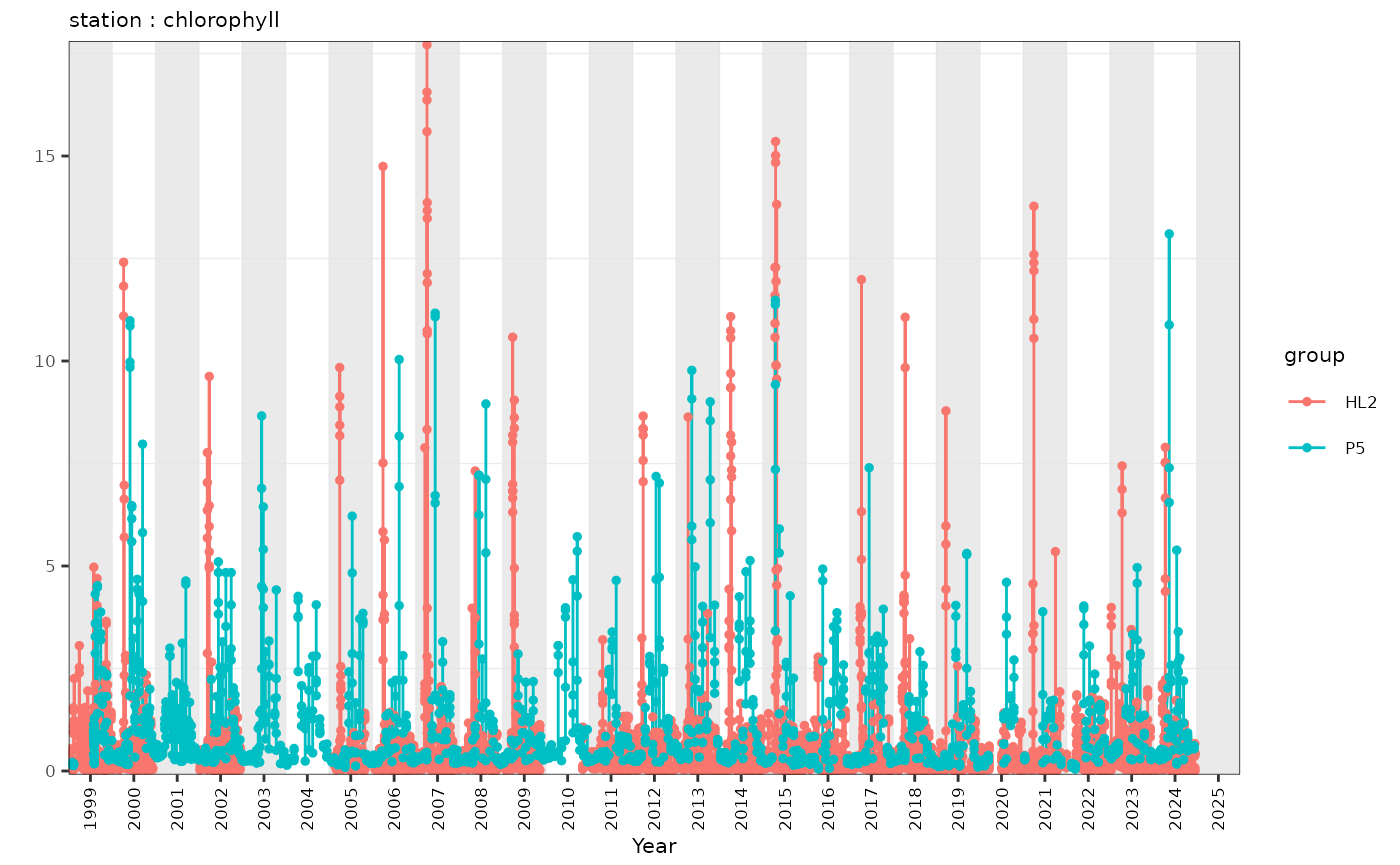
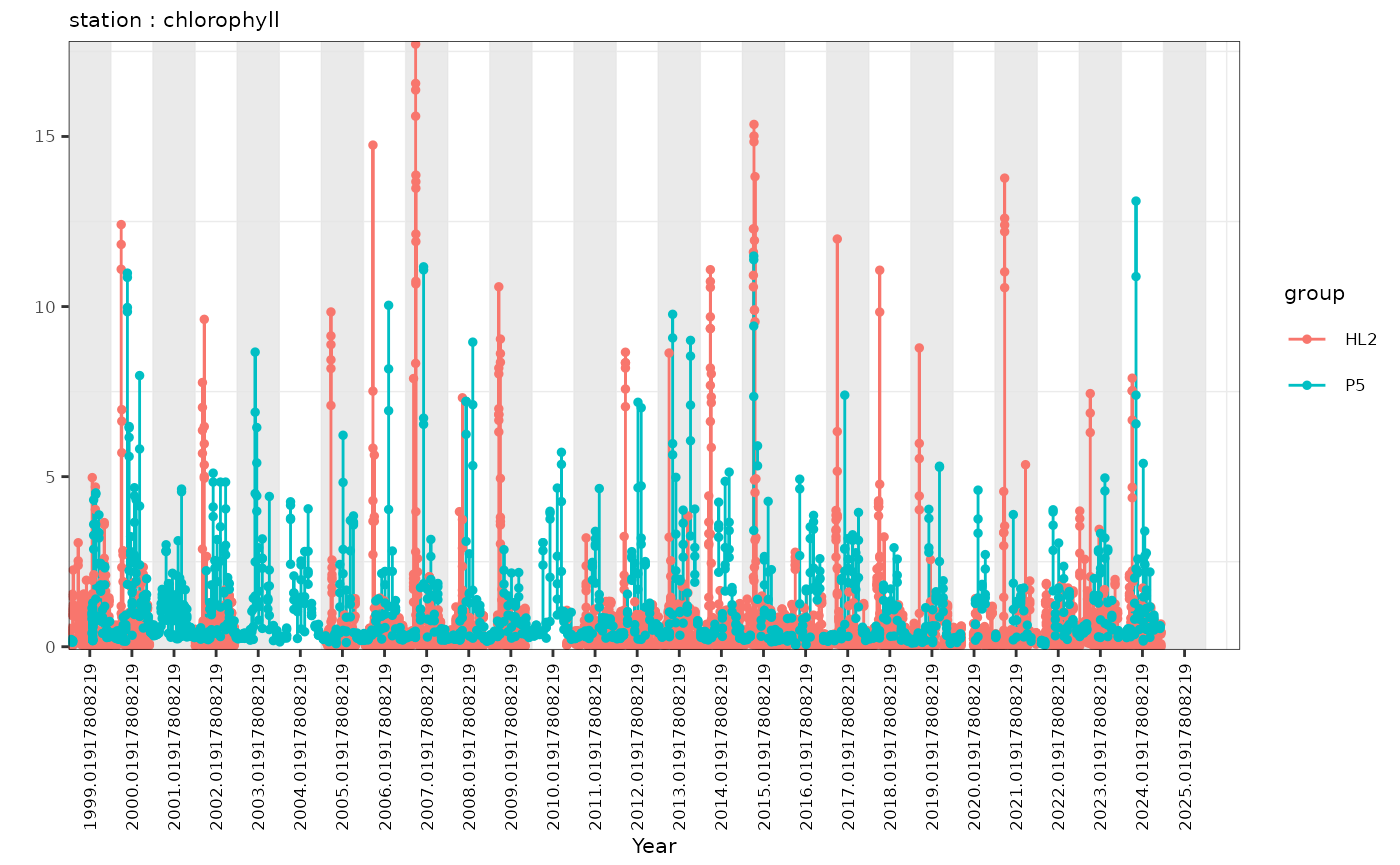
Deploying to gh-pages from @ EOGrady21/azmpdata@620d237e031e601b405af6bbc6f0dbf172aa0714 🚀

diff --git a/articles/plotting_azmpdata.html b/articles/plotting_azmpdata.html
@@ -52,7 +52,7 @@
       <a href="../articles/plotting_azmpdata.html">Plotting in azmpdata</a>
     </li>
     <li>
-      <a href="../articles/search_azmpdata.html">azmpdata - Spatially and Temporally searching data within the azmpdata package</a>
+      <a href="../articles/search_azmpdata.html">Spatially and Temporally searching data within the azmpdata package</a>
     </li>
     <li>
       <a href="../articles/style_guide.html">Style Guide</a>
@@ -259,30 +259,32 @@ annual dataset.</p>
 <p>A user may also want to plot a timeseries. This method is also fairly
 generic and could be modified to plot any Occupations dataset.</p>
 <div class="sourceCode" id="cb23"><pre class="downlit sourceCode r">
-<code class="sourceCode R"><span><span class="va">df_data</span> <span class="op">&lt;-</span> <span class="fu"><a href="https://rdrr.io/r/base/get.html" class="external-link">get</a></span><span class="op">(</span><span class="st">'Discrete_Occupations_Stations'</span><span class="op">)</span> <span class="co"># get data</span></span>
-<span><span class="va">variable</span> <span class="op">&lt;-</span> <span class="st">'chlorophyll'</span> <span class="co"># choose variable to plot</span></span>
+<code class="sourceCode R"><span>  <span class="va">df_data</span> <span class="op">&lt;-</span> <span class="fu"><a href="https://rdrr.io/r/base/get.html" class="external-link">get</a></span><span class="op">(</span><span class="st">'Discrete_Occupations_Stations'</span><span class="op">)</span> <span class="co"># get data</span></span>
+<span>  <span class="va">variable</span> <span class="op">&lt;-</span> <span class="st">'chlorophyll'</span> <span class="co"># choose variable to plot</span></span>
+<span>  </span>
+<span></span>
+<span>  <span class="co"># check for metadata</span></span>
+<span>  <span class="va">metanames</span> <span class="op">&lt;-</span> <span class="fu"><a href="https://rdrr.io/r/base/c.html" class="external-link">c</a></span><span class="op">(</span><span class="st">'year'</span>, <span class="st">'month'</span>, <span class="st">'day'</span>, <span class="st">'area'</span>, <span class="st">'section'</span>, <span class="st">'station'</span>, <span class="st">'date'</span> <span class="op">)</span></span>
+<span>  <span class="va">meta_df</span> <span class="op">&lt;-</span> <span class="fu"><a href="https://rdrr.io/r/base/names.html" class="external-link">names</a></span><span class="op">(</span><span class="va">df_data</span><span class="op">)</span><span class="op">[</span><span class="fu"><a href="https://rdrr.io/r/base/names.html" class="external-link">names</a></span><span class="op">(</span><span class="va">df_data</span><span class="op">)</span> <span class="op"><a href="https://rdrr.io/r/base/match.html" class="external-link">%in%</a></span> <span class="va">metanames</span><span class="op">]</span></span>
+<span></span>
+<span>  <span class="va">group</span> <span class="op">&lt;-</span> <span class="va">meta_df</span><span class="op">[</span><span class="op">!</span><span class="va">meta_df</span> <span class="op"><a href="https://rdrr.io/r/base/match.html" class="external-link">%in%</a></span> <span class="fu"><a href="https://rdrr.io/r/base/c.html" class="external-link">c</a></span><span class="op">(</span><span class="st">'year'</span>, <span class="st">'month'</span>, <span class="st">'day'</span>, <span class="st">'date'</span><span class="op">)</span><span class="op">]</span></span>
+<span></span>
+<span>  <span class="va">df_data</span> <span class="op">&lt;-</span> <span class="va">df_data</span> <span class="op"><a href="../reference/pipe.html">%&gt;%</a></span></span>
+<span>    <span class="fu">dplyr</span><span class="fu">::</span><span class="fu"><a href="https://dplyr.tidyverse.org/reference/select.html" class="external-link">select</a></span><span class="op">(</span><span class="va">.</span>, <span class="fu"><a href="https://tidyselect.r-lib.org/reference/all_of.html" class="external-link">any_of</a></span><span class="op">(</span><span class="va">meta_df</span><span class="op">)</span>, <span class="fu"><a href="https://tidyselect.r-lib.org/reference/all_of.html" class="external-link">all_of</a></span><span class="op">(</span><span class="va">variable</span><span class="op">)</span> <span class="op">)</span> <span class="op"><a href="../reference/pipe.html">%&gt;%</a></span></span>
+<span>    <span class="fu">dplyr</span><span class="fu">::</span><span class="fu"><a href="https://dplyr.tidyverse.org/reference/rename.html" class="external-link">rename</a></span><span class="op">(</span><span class="va">.</span>, <span class="st">'value'</span> <span class="op">=</span> <span class="fu"><a href="https://tidyselect.r-lib.org/reference/all_of.html" class="external-link">all_of</a></span><span class="op">(</span><span class="va">variable</span><span class="op">)</span> <span class="op">)</span> <span class="op"><a href="../reference/pipe.html">%&gt;%</a></span></span>
+<span>    <span class="fu">dplyr</span><span class="fu">::</span><span class="fu"><a href="https://dplyr.tidyverse.org/reference/rename.html" class="external-link">rename</a></span><span class="op">(</span><span class="va">.</span>, <span class="st">'group'</span> <span class="op">=</span> <span class="fu"><a href="https://tidyselect.r-lib.org/reference/all_of.html" class="external-link">all_of</a></span><span class="op">(</span><span class="va">group</span><span class="op">)</span><span class="op">)</span> <span class="co">#TODO some dataframes do not have groups!?</span></span>
 <span></span>
 <span></span>
-<span><span class="co"># check for metadata</span></span>
-<span><span class="va">metanames</span> <span class="op">&lt;-</span> <span class="fu"><a href="https://rdrr.io/r/base/c.html" class="external-link">c</a></span><span class="op">(</span><span class="st">'year'</span>, <span class="st">'month'</span>, <span class="st">'day'</span>, <span class="st">'area'</span>, <span class="st">'section'</span>, <span class="st">'station'</span> <span class="op">)</span></span>
-<span><span class="va">meta_df</span> <span class="op">&lt;-</span> <span class="fu"><a href="https://rdrr.io/r/base/names.html" class="external-link">names</a></span><span class="op">(</span><span class="va">df_data</span><span class="op">)</span><span class="op">[</span><span class="fu"><a href="https://rdrr.io/r/base/names.html" class="external-link">names</a></span><span class="op">(</span><span class="va">df_data</span><span class="op">)</span> <span class="op"><a href="https://rdrr.io/r/base/match.html" class="external-link">%in%</a></span> <span class="va">metanames</span><span class="op">]</span></span>
+<span>  <span class="co"># prepare data</span></span>
+<span>  <span class="va">df_data</span> <span class="op">&lt;-</span> <span class="va">df_data</span> <span class="op"><a href="../reference/pipe.html">%&gt;%</a></span></span>
+<span>    <span class="fu">tidyr</span><span class="fu">::</span><span class="fu"><a href="https://tidyr.tidyverse.org/reference/unite.html" class="external-link">unite</a></span><span class="op">(</span><span class="va">date</span>, <span class="va">year</span>, <span class="va">month</span>, <span class="va">day</span>, sep<span class="op">=</span><span class="st">"-"</span>, remove<span class="op">=</span><span class="cn">F</span><span class="op">)</span> <span class="op"><a href="../reference/pipe.html">%&gt;%</a></span></span>
+<span>    <span class="fu">dplyr</span><span class="fu">::</span><span class="fu"><a href="https://dplyr.tidyverse.org/reference/mutate.html" class="external-link">mutate</a></span><span class="op">(</span>year <span class="op">=</span> <span class="fu"><a href="https://rdrr.io/r/base/format.html" class="external-link">format</a></span><span class="op">(</span><span class="va">df_data</span><span class="op">$</span><span class="va">date</span>, <span class="st">'%Y'</span><span class="op">)</span><span class="op">)</span> <span class="op"><a href="../reference/pipe.html">%&gt;%</a></span></span>
+<span>    <span class="fu">dplyr</span><span class="fu">::</span><span class="fu"><a href="https://dplyr.tidyverse.org/reference/mutate.html" class="external-link">mutate</a></span><span class="op">(</span>year_dec<span class="op">=</span><span class="fu">lubridate</span><span class="fu">::</span><span class="fu"><a href="https://lubridate.tidyverse.org/reference/decimal_date.html" class="external-link">decimal_date</a></span><span class="op">(</span><span class="fu">lubridate</span><span class="fu">::</span><span class="fu"><a href="https://lubridate.tidyverse.org/reference/ymd.html" class="external-link">ymd</a></span><span class="op">(</span><span class="va">date</span><span class="op">)</span><span class="op">)</span><span class="op">)</span> <span class="op"><a href="../reference/pipe.html">%&gt;%</a></span></span>
+<span>    <span class="fu">dplyr</span><span class="fu">::</span><span class="fu"><a href="https://dplyr.tidyverse.org/reference/select.html" class="external-link">select</a></span><span class="op">(</span><span class="va">year</span>, <span class="va">year_dec</span>, <span class="va">value</span>, <span class="va">group</span><span class="op">)</span></span>
 <span></span>
-<span><span class="va">group</span> <span class="op">&lt;-</span> <span class="va">meta_df</span><span class="op">[</span><span class="op">!</span><span class="va">meta_df</span> <span class="op"><a href="https://rdrr.io/r/base/match.html" class="external-link">%in%</a></span> <span class="fu"><a href="https://rdrr.io/r/base/c.html" class="external-link">c</a></span><span class="op">(</span><span class="st">'year'</span>, <span class="st">'month'</span>, <span class="st">'day'</span><span class="op">)</span><span class="op">]</span></span>
-<span></span>
-<span><span class="va">df_data</span> <span class="op">&lt;-</span> <span class="va">df_data</span> <span class="op"><a href="../reference/pipe.html">%&gt;%</a></span></span>
-<span>  <span class="fu">dplyr</span><span class="fu">::</span><span class="fu"><a href="https://dplyr.tidyverse.org/reference/select.html" class="external-link">select</a></span><span class="op">(</span><span class="va">.</span>, <span class="fu"><a href="https://tidyselect.r-lib.org/reference/all_of.html" class="external-link">all_of</a></span><span class="op">(</span><span class="va">meta_df</span><span class="op">)</span>, <span class="fu"><a href="https://tidyselect.r-lib.org/reference/all_of.html" class="external-link">all_of</a></span><span class="op">(</span><span class="va">variable</span><span class="op">)</span> <span class="op">)</span> <span class="op"><a href="../reference/pipe.html">%&gt;%</a></span></span>
-<span>  <span class="fu">dplyr</span><span class="fu">::</span><span class="fu"><a href="https://dplyr.tidyverse.org/reference/rename.html" class="external-link">rename</a></span><span class="op">(</span><span class="va">.</span>, <span class="st">'value'</span> <span class="op">=</span> <span class="fu"><a href="https://tidyselect.r-lib.org/reference/all_of.html" class="external-link">all_of</a></span><span class="op">(</span><span class="va">variable</span><span class="op">)</span> <span class="op">)</span> <span class="op"><a href="../reference/pipe.html">%&gt;%</a></span></span>
-<span>  <span class="fu">dplyr</span><span class="fu">::</span><span class="fu"><a href="https://dplyr.tidyverse.org/reference/rename.html" class="external-link">rename</a></span><span class="op">(</span><span class="va">.</span>, <span class="st">'group'</span> <span class="op">=</span> <span class="fu"><a href="https://tidyselect.r-lib.org/reference/all_of.html" class="external-link">all_of</a></span><span class="op">(</span><span class="va">group</span><span class="op">)</span><span class="op">)</span> <span class="co">#TODO some dataframes do not have groups!?</span></span>
-<span></span>
-<span></span>
-<span><span class="co"># prepare data</span></span>
-<span><span class="va">df_data</span> <span class="op">&lt;-</span> <span class="va">df_data</span> <span class="op"><a href="../reference/pipe.html">%&gt;%</a></span></span>
-<span>  <span class="fu">tidyr</span><span class="fu">::</span><span class="fu"><a href="https://tidyr.tidyverse.org/reference/unite.html" class="external-link">unite</a></span><span class="op">(</span><span class="va">date</span>, <span class="va">year</span>, <span class="va">month</span>, <span class="va">day</span>, sep<span class="op">=</span><span class="st">"-"</span>, remove<span class="op">=</span><span class="cn">F</span><span class="op">)</span> <span class="op"><a href="../reference/pipe.html">%&gt;%</a></span></span>
-<span>  <span class="fu">dplyr</span><span class="fu">::</span><span class="fu"><a href="https://dplyr.tidyverse.org/reference/mutate.html" class="external-link">mutate</a></span><span class="op">(</span>year_dec<span class="op">=</span><span class="fu">lubridate</span><span class="fu">::</span><span class="fu"><a href="https://lubridate.tidyverse.org/reference/decimal_date.html" class="external-link">decimal_date</a></span><span class="op">(</span><span class="fu">lubridate</span><span class="fu">::</span><span class="fu"><a href="https://lubridate.tidyverse.org/reference/ymd.html" class="external-link">ymd</a></span><span class="op">(</span><span class="va">date</span><span class="op">)</span><span class="op">)</span><span class="op">)</span> <span class="op"><a href="../reference/pipe.html">%&gt;%</a></span></span>
-<span>  <span class="fu">dplyr</span><span class="fu">::</span><span class="fu"><a href="https://dplyr.tidyverse.org/reference/select.html" class="external-link">select</a></span><span class="op">(</span><span class="va">year</span>, <span class="va">year_dec</span>, <span class="va">value</span>, <span class="va">group</span><span class="op">)</span></span>
 <span></span>
 <span><span class="co"># set x-axis</span></span>
-<span><span class="va">x_limits</span> <span class="op">&lt;-</span> <span class="fu"><a href="https://rdrr.io/r/base/c.html" class="external-link">c</a></span><span class="op">(</span><span class="fu"><a href="https://rdrr.io/r/base/Extremes.html" class="external-link">min</a></span><span class="op">(</span><span class="va">df_data</span><span class="op">$</span><span class="va">year</span><span class="op">)</span>, <span class="fu"><a href="https://rdrr.io/r/base/Extremes.html" class="external-link">max</a></span><span class="op">(</span><span class="va">df_data</span><span class="op">$</span><span class="va">year</span><span class="op">)</span><span class="op">+</span><span class="fl">1</span><span class="op">)</span></span>
+<span><span class="va">x_limits</span> <span class="op">&lt;-</span> <span class="fu"><a href="https://rdrr.io/r/base/c.html" class="external-link">c</a></span><span class="op">(</span><span class="fu"><a href="https://rdrr.io/r/base/Extremes.html" class="external-link">min</a></span><span class="op">(</span><span class="va">df_data</span><span class="op">$</span><span class="va">year_dec</span><span class="op">)</span>, <span class="fu"><a href="https://rdrr.io/r/base/Extremes.html" class="external-link">max</a></span><span class="op">(</span><span class="va">df_data</span><span class="op">$</span><span class="va">year_dec</span><span class="op">)</span><span class="op">+</span><span class="fl">1</span><span class="op">)</span></span>
 <span><span class="va">x_breaks</span> <span class="op">&lt;-</span> <span class="fu"><a href="https://rdrr.io/r/base/seq.html" class="external-link">seq</a></span><span class="op">(</span><span class="va">x_limits</span><span class="op">[</span><span class="fl">1</span><span class="op">]</span><span class="op">+</span><span class="fl">.5</span>, <span class="va">x_limits</span><span class="op">[</span><span class="fl">2</span><span class="op">]</span><span class="op">-</span><span class="fl">.5</span>, by<span class="op">=</span><span class="fl">1</span><span class="op">)</span></span>
 <span><span class="va">x_labels</span> <span class="op">&lt;-</span> <span class="va">x_breaks</span><span class="op">-</span><span class="fl">.5</span></span>
 <span></span>

diff --git a/reference/azmpdata.html b/reference/azmpdata.html
@@ -1,8 +1,147 @@
-<html>
-  <head>
-    <meta http-equiv="refresh" content="0;URL=https://casaultb.github.io/azmpdata/reference/azmpdata-package.html" />
-    <meta name="robots" content="noindex">
-    <link rel="canonical" href="https://casaultb.github.io/azmpdata/reference/azmpdata-package.html">
-  </head>
-</html>
+<!DOCTYPE html>
+<!-- Generated by pkgdown: do not edit by hand --><html lang="en"><head><meta http-equiv="Content-Type" content="text/html; charset=UTF-8"><meta charset="utf-8"><meta http-equiv="X-UA-Compatible" content="IE=edge"><meta name="viewport" content="width=device-width, initial-scale=1.0"><title>azmpdata: A package providing data products derived from data collected as part of The Atlantic Zone Monitoring Program (AZMP). — azmpdata • azmpdata</title><!-- jquery --><script src="https://cdnjs.cloudflare.com/ajax/libs/jquery/3.7.1/jquery.min.js" integrity="sha512-v2CJ7UaYy4JwqLDIrZUI/4hqeoQieOmAZNXBeQyjo21dadnwR+8ZaIJVT8EE2iyI61OV8e6M8PP2/4hpQINQ/g==" crossorigin="anonymous" referrerpolicy="no-referrer"></script><!-- Bootstrap --><link rel="stylesheet" href="https://cdnjs.cloudflare.com/ajax/libs/twitter-bootstrap/3.4.1/css/bootstrap.min.css" integrity="sha256-bZLfwXAP04zRMK2BjiO8iu9pf4FbLqX6zitd+tIvLhE=" crossorigin="anonymous"><script src="https://cdnjs.cloudflare.com/ajax/libs/twitter-bootstrap/3.4.1/js/bootstrap.min.js" integrity="sha256-nuL8/2cJ5NDSSwnKD8VqreErSWHtnEP9E7AySL+1ev4=" crossorigin="anonymous"></script><!-- bootstrap-toc --><link rel="stylesheet" href="../bootstrap-toc.css"><script src="../bootstrap-toc.js"></script><!-- Font Awesome icons --><link rel="stylesheet" href="https://cdnjs.cloudflare.com/ajax/libs/font-awesome/5.12.1/css/all.min.css" integrity="sha256-mmgLkCYLUQbXn0B1SRqzHar6dCnv9oZFPEC1g1cwlkk=" crossorigin="anonymous"><link rel="stylesheet" href="https://cdnjs.cloudflare.com/ajax/libs/font-awesome/5.12.1/css/v4-shims.min.css" integrity="sha256-wZjR52fzng1pJHwx4aV2AO3yyTOXrcDW7jBpJtTwVxw=" crossorigin="anonymous"><!-- clipboard.js --><script src="https://cdnjs.cloudflare.com/ajax/libs/clipboard.js/2.0.6/clipboard.min.js" integrity="sha256-inc5kl9MA1hkeYUt+EC3BhlIgyp/2jDIyBLS6k3UxPI=" crossorigin="anonymous"></script><!-- headroom.js --><script src="https://cdnjs.cloudflare.com/ajax/libs/headroom/0.11.0/headroom.min.js" integrity="sha256-AsUX4SJE1+yuDu5+mAVzJbuYNPHj/WroHuZ8Ir/CkE0=" crossorigin="anonymous"></script><script src="https://cdnjs.cloudflare.com/ajax/libs/headroom/0.11.0/jQuery.headroom.min.js" integrity="sha256-ZX/yNShbjqsohH1k95liqY9Gd8uOiE1S4vZc+9KQ1K4=" crossorigin="anonymous"></script><!-- pkgdown --><link href="../pkgdown.css" rel="stylesheet"><script src="../pkgdown.js"></script><meta property="og:title" content="azmpdata: A package providing data products derived from data collected as part of The Atlantic Zone Monitoring Program (AZMP). — azmpdata"><meta property="og:description" content='The azmp package provides three categories of data products:
+physical, biological and chemical variables.  For a complete list of
+variables, use library(help = "azmpdata").'><!-- mathjax --><script src="https://cdnjs.cloudflare.com/ajax/libs/mathjax/2.7.5/MathJax.js" integrity="sha256-nvJJv9wWKEm88qvoQl9ekL2J+k/RWIsaSScxxlsrv8k=" crossorigin="anonymous"></script><script src="https://cdnjs.cloudflare.com/ajax/libs/mathjax/2.7.5/config/TeX-AMS-MML_HTMLorMML.js" integrity="sha256-84DKXVJXs0/F8OTMzX4UR909+jtl4G7SPypPavF+GfA=" crossorigin="anonymous"></script><!--[if lt IE 9]>
+<script src="https://oss.maxcdn.com/html5shiv/3.7.3/html5shiv.min.js"></script>
+<script src="https://oss.maxcdn.com/respond/1.4.2/respond.min.js"></script>
+<![endif]--></head><body data-spy="scroll" data-target="#toc">
+
+
+    <div class="container template-reference-topic">
+      <header><div class="navbar navbar-default navbar-fixed-top" role="navigation">
+  <div class="container">
+    <div class="navbar-header">
+      <button type="button" class="navbar-toggle collapsed" data-toggle="collapse" data-target="#navbar" aria-expanded="false">
+        <span class="sr-only">Toggle navigation</span>
+        <span class="icon-bar"></span>
+        <span class="icon-bar"></span>
+        <span class="icon-bar"></span>
+      </button>
+      <span class="navbar-brand">
+        <a class="navbar-link" href="../index.html">azmpdata</a>
+        <span class="version label label-default" data-toggle="tooltip" data-placement="bottom" title="">0.2019.0.9100</span>
+      </span>
+    </div>
+
+    <div id="navbar" class="navbar-collapse collapse">
+      <ul class="nav navbar-nav"><li>
+  <a href="../reference/index.html">Reference</a>
+</li>
+<li class="dropdown">
+  <a href="#" class="dropdown-toggle" data-toggle="dropdown" role="button" data-bs-toggle="dropdown" aria-expanded="false">
+    Articles
+
+    <span class="caret"></span>
+  </a>
+  <ul class="dropdown-menu" role="menu"><li>
+      <a href="../articles/plotting_azmpdata.html">Plotting in azmpdata</a>
+    </li>
+    <li>
+      <a href="../articles/search_azmpdata.html">Spatially and Temporally searching data within the azmpdata package</a>
+    </li>
+    <li>
+      <a href="../articles/style_guide.html">Style Guide</a>
+    </li>
+    <li>
+      <a href="../articles/update_azmpdata.html">update_azmpdata</a>
+    </li>
+  </ul></li>
+      </ul><ul class="nav navbar-nav navbar-right"><li>
+  <a href="https://github.com/casaultb/azmpdata/" class="external-link">
+    <span class="fab fa-github fa-lg"></span>
+
+  </a>
+</li>
+      </ul></div><!--/.nav-collapse -->
+  </div><!--/.container -->
+</div><!--/.navbar -->
+
+
+
+      </header><div class="row">
+  <div class="col-md-9 contents">
+    <div class="page-header">
+    <h1>azmpdata: A package providing data products derived from data collected as part of The Atlantic Zone Monitoring Program (AZMP).</h1>
+    <small class="dont-index">Source: <a href="https://github.com/casaultb/azmpdata/blob/master/R/azmpdata.R" class="external-link"><code>R/azmpdata.R</code></a></small>
+    <div class="hidden name"><code>azmpdata.Rd</code></div>
+    </div>
+
+    <div class="ref-description">
+    <p>The azmp package provides three categories of data products:
+physical, biological and chemical variables.  For a complete list of
+variables, use library(help = "azmpdata").</p>
+    </div>
+
+
+    <div id="physical-variables">
+    <h2>Physical variables</h2>
+
+
+<p>The physical variables include basic oceanographic variables (temperature, salinity,
+density) and additional derived variables such as parameters of the cold intermediate
+layer (CIL), sea-ice parameters (area, volume, duration and timing), sea surface height
+and seas surface temperature as measured by remote sensing.</p>
+    </div>
+    <div id="biological-variables">
+    <h2>Biological variables</h2>
+
+
+<p>The biological variables include chlorophyll, phyto- and zooplankton
+abundance, and zooplankton biomass. Parameters of the spring phytoplankton bloom
+as estimated from remote sensing surface chlorophyll are also included.</p>
+    </div>
+    <div id="chemical-variables">
+    <h2>Chemical variables</h2>
+
+
+<p>The chemical variables include main nutrients (nitrate, silicate and phosphate).
+Carbonate chemistry variables such as pH, dissolved inorganic carbon (DIC) and
+total alkalinity (TA) are also included as annual means.</p>
+    </div>
+    <div id="other-variables">
+    <h2>Other variables</h2>
+
+
+<p>Other variables of relevance for multivariate data analysis are also included. They
+include air temperature, North Atlantic Oscillation (NAO) and river fresh water flux.</p>
+    </div>
+    <div id="see-also">
+    <h2>See also</h2>
+    <div class="dont-index"><p>Useful links:</p><ul><li><p><a href="https://casaultb.github.io/azmpdata">https://casaultb.github.io/azmpdata</a></p></li>
+<li><p><a href="https://github.com/casaultb/azmpdata" class="external-link">https://github.com/casaultb/azmpdata</a></p></li>
+<li><p>Report bugs at <a href="https://github.com/casaultb/azmpdata/issues" class="external-link">https://github.com/casaultb/azmpdata/issues</a></p></li>
+</ul></div>
+    </div>
+    <div id="author">
+    <h2>Author</h2>
+    <p><strong>Maintainer</strong>: Benoit Casault <a href="mailto:Benoit.Casualt@dfo-mpo.gc.ca">Benoit.Casualt@dfo-mpo.gc.ca</a></p>
+<p>Authors:</p><ul><li><p>Emily Chisholm <a href="mailto:Emily.Chisholm@dfo-mpo.gc.ca">Emily.Chisholm@dfo-mpo.gc.ca</a> (<a href="https://orcid.org/0000-0002-1072-5879" class="external-link">ORCID</a>)</p></li>
+<li><p>Chantelle Layton <a href="mailto:Chantelle.Layton@dfo-mpo.gc.ca">Chantelle.Layton@dfo-mpo.gc.ca</a> (<a href="https://orcid.org/0000-0002-3199-5763" class="external-link">ORCID</a>)</p></li>
+<li><p>Mike McMahon <a href="mailto:Mike.McMahon@dfo-mpo.gc.ca">Mike.McMahon@dfo-mpo.gc.ca</a></p></li>
+</ul><p>Other contributors:</p><ul><li><p>Catherine Johnson <a href="mailto:Catherine.Johnson@dfo-mpo.gc.ca">Catherine.Johnson@dfo-mpo.gc.ca</a> [contributor]</p></li>
+</ul></div>
+
+  </div>
+  <div class="col-md-3 hidden-xs hidden-sm" id="pkgdown-sidebar">
+    <nav id="toc" data-toggle="toc" class="sticky-top"><h2 data-toc-skip>Contents</h2>
+    </nav></div>
+</div>
+
+
+      <footer><div class="copyright">
+  <p></p><p>Developed by Benoit Casault, Emily Chisholm, Chantelle Layton, Mike McMahon.</p>
+</div>
+
+<div class="pkgdown">
+  <p></p><p>Site built with <a href="https://pkgdown.r-lib.org/" class="external-link">pkgdown</a> 2.2.0.</p>
+</div>
+
+      </footer></div>
+
+
+
+
+
+
+  </body></html>
 

diff --git a/articles/search_azmpdata.html b/articles/search_azmpdata.html
@@ -5,13 +5,13 @@
 <meta charset="utf-8">
 <meta http-equiv="X-UA-Compatible" content="IE=edge">
 <meta name="viewport" content="width=device-width, initial-scale=1.0">
-<title>azmpdata - Spatially and Temporally searching data within the azmpdata package • azmpdata</title>
+<title>Spatially and Temporally searching data within the azmpdata package • azmpdata</title>
 <!-- jquery --><script src="https://cdnjs.cloudflare.com/ajax/libs/jquery/3.7.1/jquery.min.js" integrity="sha512-v2CJ7UaYy4JwqLDIrZUI/4hqeoQieOmAZNXBeQyjo21dadnwR+8ZaIJVT8EE2iyI61OV8e6M8PP2/4hpQINQ/g==" crossorigin="anonymous" referrerpolicy="no-referrer"></script><!-- Bootstrap --><link rel="stylesheet" href="https://cdnjs.cloudflare.com/ajax/libs/twitter-bootstrap/3.4.1/css/bootstrap.min.css" integrity="sha256-bZLfwXAP04zRMK2BjiO8iu9pf4FbLqX6zitd+tIvLhE=" crossorigin="anonymous">
 <script src="https://cdnjs.cloudflare.com/ajax/libs/twitter-bootstrap/3.4.1/js/bootstrap.min.js" integrity="sha256-nuL8/2cJ5NDSSwnKD8VqreErSWHtnEP9E7AySL+1ev4=" crossorigin="anonymous"></script><!-- bootstrap-toc --><link rel="stylesheet" href="../bootstrap-toc.css">
 <script src="../bootstrap-toc.js"></script><!-- Font Awesome icons --><link rel="stylesheet" href="https://cdnjs.cloudflare.com/ajax/libs/font-awesome/5.12.1/css/all.min.css" integrity="sha256-mmgLkCYLUQbXn0B1SRqzHar6dCnv9oZFPEC1g1cwlkk=" crossorigin="anonymous">
 <link rel="stylesheet" href="https://cdnjs.cloudflare.com/ajax/libs/font-awesome/5.12.1/css/v4-shims.min.css" integrity="sha256-wZjR52fzng1pJHwx4aV2AO3yyTOXrcDW7jBpJtTwVxw=" crossorigin="anonymous">
 <!-- clipboard.js --><script src="https://cdnjs.cloudflare.com/ajax/libs/clipboard.js/2.0.6/clipboard.min.js" integrity="sha256-inc5kl9MA1hkeYUt+EC3BhlIgyp/2jDIyBLS6k3UxPI=" crossorigin="anonymous"></script><!-- headroom.js --><script src="https://cdnjs.cloudflare.com/ajax/libs/headroom/0.11.0/headroom.min.js" integrity="sha256-AsUX4SJE1+yuDu5+mAVzJbuYNPHj/WroHuZ8Ir/CkE0=" crossorigin="anonymous"></script><script src="https://cdnjs.cloudflare.com/ajax/libs/headroom/0.11.0/jQuery.headroom.min.js" integrity="sha256-ZX/yNShbjqsohH1k95liqY9Gd8uOiE1S4vZc+9KQ1K4=" crossorigin="anonymous"></script><!-- pkgdown --><link href="../pkgdown.css" rel="stylesheet">
-<script src="../pkgdown.js"></script><meta property="og:title" content="azmpdata - Spatially and Temporally searching data within the azmpdata package">
+<script src="../pkgdown.js"></script><meta property="og:title" content="Spatially and Temporally searching data within the azmpdata package">
 <!-- mathjax --><script src="https://cdnjs.cloudflare.com/ajax/libs/mathjax/2.7.5/MathJax.js" integrity="sha256-nvJJv9wWKEm88qvoQl9ekL2J+k/RWIsaSScxxlsrv8k=" crossorigin="anonymous"></script><script src="https://cdnjs.cloudflare.com/ajax/libs/mathjax/2.7.5/config/TeX-AMS-MML_HTMLorMML.js" integrity="sha256-84DKXVJXs0/F8OTMzX4UR909+jtl4G7SPypPavF+GfA=" crossorigin="anonymous"></script><!--[if lt IE 9]>
 <script src="https://oss.maxcdn.com/html5shiv/3.7.3/html5shiv.min.js"></script>
 <script src="https://oss.maxcdn.com/respond/1.4.2/respond.min.js"></script>
@@ -52,7 +52,7 @@
       <a href="../articles/plotting_azmpdata.html">Plotting in azmpdata</a>
     </li>
     <li>
-      <a href="../articles/search_azmpdata.html">azmpdata - Spatially and Temporally searching data within the azmpdata package</a>
+      <a href="../articles/search_azmpdata.html">Spatially and Temporally searching data within the azmpdata package</a>
     </li>
     <li>
       <a href="../articles/style_guide.html">Style Guide</a>
@@ -83,8 +83,8 @@
       </header><div class="row">
   <div class="col-md-9 contents">
     <div class="page-header toc-ignore">
-      <h1 data-toc-skip>azmpdata - Spatially and Temporally searching
-data within the azmpdata package</h1>
+      <h1 data-toc-skip>Spatially and Temporally searching data within
+the azmpdata package</h1>
                         <h4 data-toc-skip class="author">Emily Chisholm
 and Jaimie Harbin</h4>
             
@@ -281,7 +281,17 @@ locations</div>
 <!-- Basically, `area_indexer()` is a good way to filter through the multiple dataframes to get exactly what the user is interested in. -->
 <!-- ## Temporally displaying data: plot_availability() -->
 <!-- The user now knows what is contained within the package, where data are sampled, and how to properly filter through the data. It is then recommended that the user completed step 4, `plot_availability()` to understand when the data are sampled. This function generates a score card of samples per month based on `areaType`, `areaName`, and `parameters`. -->
-<!-- For example, if a user wanted to know the frequency (ie. samples/month) for the nitrate at station P5, they would type in the following: -->
+<p>For example, if a user wanted to know the frequency (ie.
+samples/month) for the sea surface height at Halifax, they would type in
+the following:</p>
+<div class="sourceCode" id="cb14"><pre class="downlit sourceCode r">
+<code class="sourceCode R"><span><span class="fu"><a href="../reference/plot_availability.html">plot_availability</a></span><span class="op">(</span>areaType <span class="op">=</span> <span class="st">"station"</span>, areaName<span class="op">=</span><span class="st">"Halifax"</span>, parameters<span class="op">=</span><span class="st">"sea_surface_height"</span><span class="op">)</span></span></code></pre></div>
+<div class="figure">
+<img src="search_azmpdata_files/figure-html/unnamed-chunk-12-1.png" class="r-plt" alt="Figure 3: Sampling freqency per month for sea_surface_height at Halifax" width="700"><p class="caption">
+Figure 3: Sampling freqency per month for sea_surface_height at Halifax
+</p>
+</div>
+<pre><code><span><span class="co">## Plot generated for sea_surface_height at Halifax</span></span></code></pre>
 </div>
 <div class="section level2">
 <h2 id="conclusion">Conclusion<a class="anchor" aria-label="anchor" href="#conclusion"></a>

diff --git a/reference/index.html b/reference/index.html
@@ -35,7 +35,7 @@
       <a href="../articles/plotting_azmpdata.html">Plotting in azmpdata</a>
     </li>
     <li>
-      <a href="../articles/search_azmpdata.html">azmpdata - Spatially and Temporally searching data within the azmpdata package</a>
+      <a href="../articles/search_azmpdata.html">Spatially and Temporally searching data within the azmpdata package</a>
     </li>
     <li>
       <a href="../articles/style_guide.html">Style Guide</a>
@@ -158,6 +158,10 @@
           <p><code><a href="area_indexer.html">area_indexer()</a></code> </p>
         </td>
         <td><p>area_indexer</p></td>
+      </tr><tr><td>
+          <p><code><a href="azmpdata.html">azmpdata</a></code> </p>
+        </td>
+        <td><p>azmpdata: A package providing data products derived from data collected as part of The Atlantic Zone Monitoring Program (AZMP).</p></td>
       </tr><tr><td>
           <p><code><a href="azmpmap.html">azmpmap()</a></code> </p>
         </td>

diff --git a/articles/index.html b/articles/index.html
@@ -35,7 +35,7 @@
       <a href="../articles/plotting_azmpdata.html">Plotting in azmpdata</a>
     </li>
     <li>
-      <a href="../articles/search_azmpdata.html">azmpdata - Spatially and Temporally searching data within the azmpdata package</a>
+      <a href="../articles/search_azmpdata.html">Spatially and Temporally searching data within the azmpdata package</a>
     </li>
     <li>
       <a href="../articles/style_guide.html">Style Guide</a>
@@ -68,7 +68,7 @@
 
       <dl><dt><a href="plotting_azmpdata.html">Plotting in azmpdata</a></dt>
         <dd>
-        </dd><dt><a href="search_azmpdata.html">azmpdata - Spatially and Temporally searching data within the azmpdata package</a></dt>
+        </dd><dt><a href="search_azmpdata.html">Spatially and Temporally searching data within the azmpdata package</a></dt>
         <dd>
         </dd><dt><a href="style_guide.html">Style Guide</a></dt>
         <dd>

diff --git a/404.html b/404.html
@@ -52,7 +52,7 @@
       <a href="https://casaultb.github.io/azmpdata/articles/plotting_azmpdata.html">Plotting in azmpdata</a>
     </li>
     <li>
-      <a href="https://casaultb.github.io/azmpdata/articles/search_azmpdata.html">azmpdata - Spatially and Temporally searching data within the azmpdata package</a>
+      <a href="https://casaultb.github.io/azmpdata/articles/search_azmpdata.html">Spatially and Temporally searching data within the azmpdata package</a>
     </li>
     <li>
       <a href="https://casaultb.github.io/azmpdata/articles/style_guide.html">Style Guide</a>

diff --git a/reference/Ice_Annual_Broadscale.html b/reference/Ice_Annual_Broadscale.html
@@ -36,7 +36,7 @@ Scotian Shelf area."><!-- mathjax --><script src="https://cdnjs.cloudflare.com/a
       <a href="../articles/plotting_azmpdata.html">Plotting in azmpdata</a>
     </li>
     <li>
-      <a href="../articles/search_azmpdata.html">azmpdata - Spatially and Temporally searching data within the azmpdata package</a>
+      <a href="../articles/search_azmpdata.html">Spatially and Temporally searching data within the azmpdata package</a>
     </li>
     <li>
       <a href="../articles/style_guide.html">Style Guide</a>

diff --git a/reference/area_indexer.html b/reference/area_indexer.html
@@ -36,7 +36,7 @@ packages\'s data has been collected, as well as the associated file(s) where the
       <a href="../articles/plotting_azmpdata.html">Plotting in azmpdata</a>
     </li>
     <li>
-      <a href="../articles/search_azmpdata.html">azmpdata - Spatially and Temporally searching data within the azmpdata package</a>
+      <a href="../articles/search_azmpdata.html">Spatially and Temporally searching data within the azmpdata package</a>
     </li>
     <li>
       <a href="../articles/style_guide.html">Style Guide</a>

diff --git a/reference/azmpmap.html b/reference/azmpmap.html
@@ -36,7 +36,7 @@ ftp://ftp.dfo-mpo.gc.ca/AZMP_Maritimes/azmpdata/data/lookup/polygons/."><!-- mat
       <a href="../articles/plotting_azmpdata.html">Plotting in azmpdata</a>
     </li>
     <li>
-      <a href="../articles/search_azmpdata.html">azmpdata - Spatially and Temporally searching data within the azmpdata package</a>
+      <a href="../articles/search_azmpdata.html">Spatially and Temporally searching data within the azmpdata package</a>
     </li>
     <li>
       <a href="../articles/style_guide.html">Style Guide</a>

diff --git a/reference/update_check.html b/reference/update_check.html
@@ -36,7 +36,7 @@ github, and prompts the user to update."><!-- mathjax --><script src="https://cd
       <a href="../articles/plotting_azmpdata.html">Plotting in azmpdata</a>
     </li>
     <li>
-      <a href="../articles/search_azmpdata.html">azmpdata - Spatially and Temporally searching data within the azmpdata package</a>
+      <a href="../articles/search_azmpdata.html">Spatially and Temporally searching data within the azmpdata package</a>
     </li>
     <li>
       <a href="../articles/style_guide.html">Style Guide</a>

diff --git a/reference/variable_lookup.html b/reference/variable_lookup.html
@@ -38,7 +38,7 @@ and metadata."><!-- mathjax --><script src="https://cdnjs.cloudflare.com/ajax/li
       <a href="../articles/plotting_azmpdata.html">Plotting in azmpdata</a>
     </li>
     <li>
-      <a href="../articles/search_azmpdata.html">azmpdata - Spatially and Temporally searching data within the azmpdata package</a>
+      <a href="../articles/search_azmpdata.html">Spatially and Temporally searching data within the azmpdata package</a>
     </li>
     <li>
       <a href="../articles/style_guide.html">Style Guide</a>

diff --git a/articles/style_guide.html b/articles/style_guide.html
@@ -52,7 +52,7 @@
       <a href="../articles/plotting_azmpdata.html">Plotting in azmpdata</a>
     </li>
     <li>
-      <a href="../articles/search_azmpdata.html">azmpdata - Spatially and Temporally searching data within the azmpdata package</a>
+      <a href="../articles/search_azmpdata.html">Spatially and Temporally searching data within the azmpdata package</a>
     </li>
     <li>
       <a href="../articles/style_guide.html">Style Guide</a>
